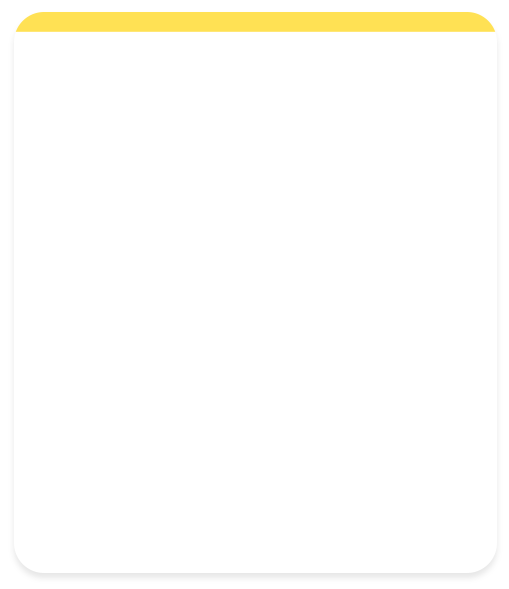
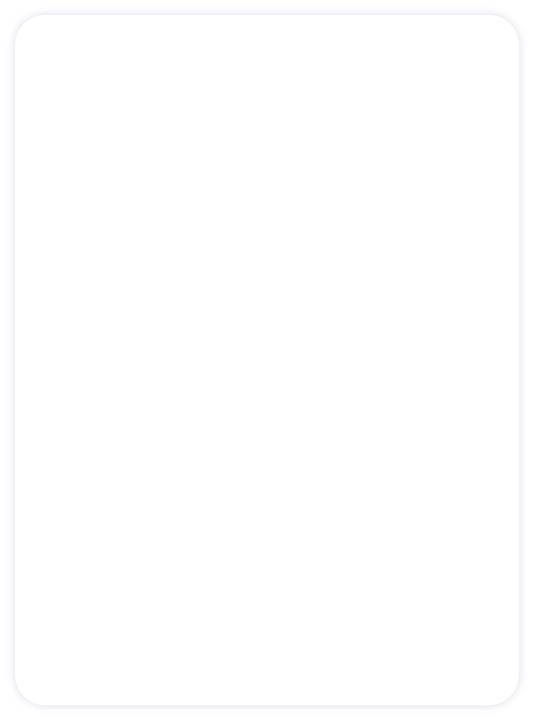
회원가입 디자인 수정 아이콘 간격 수정 예정

Changed region(s): [[0.0295, 0.0, 0.9725, 0.0611]]

diff --git a/CSS/SignUp.css b/CSS/SignUp.css
@@ -18,8 +18,6 @@ html {
 .contents {
     position: absolute;
     margin-top: 15px; /* nav와 회원가입 글자사이 간격 */
-    width: 509px; /* 맞나..? */
-    height: 646px; /* 맞나... */
     left: 50%;
     transform: translateX(-50%);
 }
@@ -27,14 +25,22 @@ html {
 /* 회원가입 글씨 */
 .title {
     width: 100%;
-    height: 50px;
-    margin-bottom: 7px; /* 회원가입 글자와 창 간격 조절 */
+    margin-bottom: 30px;
 }
 
 .title-p{
     text-align: center;
     font-size: 32px;
     margin: 0;  /* p태그 이 속성 reset.css로 옮겨도 이상없으면 옮기기 */
+    color: #FCAF49;
+    font-size: 40px;
+}
+
+.descriptions-p {
+    text-align: center;
+    color: #666666;
+    margin-top: 10px;
+    margin-bottom: 0px;
 }
 
 .bar {
@@ -58,24 +64,25 @@ html {
 
 .input{
     position: absolute;
-    top: 21%;
+    top: 23%;
     left: 50%;
     transform: translate(-50%, 0);
-    width: 397px;
-    height: 470px;
+    /* width: 397px;
+    height: 470px; */
     text-align: center;
 }
 
 .input-box {
     position: relative;
-    margin-bottom: 10px;
+    margin-bottom: 30px;
     left: 50%;
     transform: translate(-50%, 0);
+    width: 450px;
 }
 
 .half-box {
     position: relative;
-    margin-bottom: 10px;
+    margin-bottom: 30px;
     display: inline-block;
 }
 
@@ -85,33 +92,38 @@ html {
 }
 
 .input-info, .input-id, .input-pwcheck {
-    width: 291.5px;
-    height: 47px; 
+    width: 350px;
+    height: 48.3px; 
     margin-left: 50px;
     border-radius: 0 10px 10px 0;
-    border:1px solid #3648ec;
+    border:0px;
     padding: 1.5px;
     padding-left: 15px; 
     margin-top: 4px;
+    box-shadow: 0px 1px 5px #C2C2C2;
 }
 
 /* 더 간단히 줄일 수 있으면 그렇게.. */
 .input-half, .input-id {
-    height: 47px; 
+    height: 50px; 
     margin-left: 47px;
     border-radius: 0 10px 10px 0;
-    border:1px solid #3648ec;
+    border:0px;
     padding: 1.5px;
     padding-left: 15px; 
+    margin-top: 5px;
     display: inline-block;    
+    box-shadow: 0px 1px 5px #C2C2C2;
+    padding-top: 0;
+    padding-bottom: 0px;
 }
 
 .input-half {
-    width: 110px;
+    width: 142px;
 }
 
 .input-id {
-    width: 127px;
+    width: 142px;
 }
 
 /* e-mirim 박스 */
@@ -119,11 +131,12 @@ html {
     margin-left: 0; 
     border-radius: 10px 10px 10px 10px;
     height: 47px; 
-    border:1px solid #3648ec;
+    border:0px;
     text-align: center;
-    width: 137.5px;
+    width: 180px;
     font-size: 14px;
     background-color: white;
+    box-shadow: 0px 1px 5px #C2C2C2;
 }
 
 
@@ -134,16 +147,19 @@ html {
 }
 
 /* placeholder 색 변경 */
-.input-info::placeholder, .input-id::placeholder, .input-pwcheck::placeholder, .input-half::placeholder { color: #a1a1a1; font-size: 13px; }
+.input-info::placeholder, .input-id::placeholder, .input-pwcheck::placeholder, .input-half::placeholder { color: #A0A3B5; font-size: 13px; }
+.box::placeholder { color: #45464F; }
 
 .input input#sub {
-    width:355px;
-    height:50px;
+    width: 405px;
+    height: 60px;
     border: 0;
     border-radius: 50px;
     background-color: #fac60e;
     color:white;
     font-size: 16px;
-    margin-top: 25px;
-    /* box-shadow: ; */
+    /* margin-top: 25px; */
+    box-shadow: 0px 1px 5px #C2C2C2;
 }
+
+.half-box>span { color: #707070; }

diff --git a/SignUp.html b/SignUp.html
@@ -49,7 +49,8 @@
 
                 <div class="title">
                     <p class="title-p">회원가입</p>
-                    <div class="bar"></div>
+                    <p class="descriptions-p">미림 라이프에 오신 것을 환영합니다.</p>
+                    <!-- <div class="bar"></div> -->
                 </div>
 
                 <div class="window">
@@ -83,7 +84,7 @@
                                 <input type="text" class="input-id" placeholder=" 아이디" name="id" required>
                             </div>
                             <div class="half-box">
-                                @
+                                <span>@</span>
                                 <input type="text" class="box" placeholder=" e-mirim.hs.kr" name="email" disabled>
                             </div>
                             <!-- 비밀번호 -->
